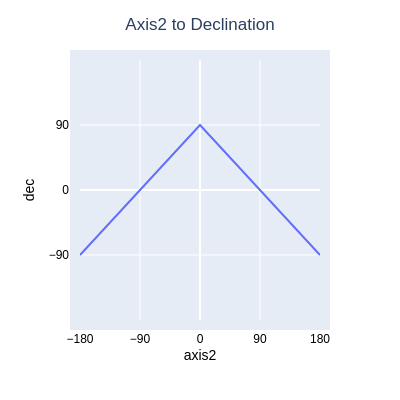
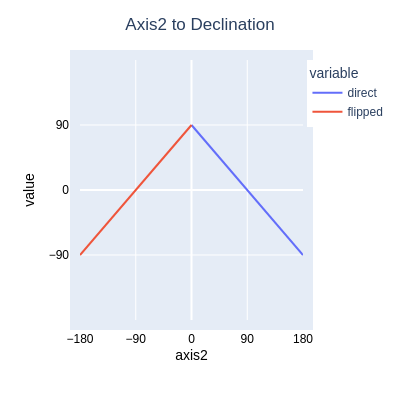
doc changes

diff --git a/teenastro_v3/teenastro_v3/index.html b/teenastro_v3/teenastro_v3/index.html
@@ -71,6 +71,8 @@
     </li>
     <li class="toctree-l2"><a class="reference internal" href="#motion-control-spi-only-mode-of-the-5160-stepper-controller">Motion Control (SPI-only) mode of the 5160 stepper controller</a>
     </li>
+    <li class="toctree-l2"><a class="reference internal" href="#motor-api">Motor API</a>
+    </li>
     <li class="toctree-l2"><a class="reference internal" href="#hardware">Hardware</a>
     </li>
     </ul>
@@ -131,7 +133,7 @@
 <li>for the  sky model (mapping sky coordinates to instrument coordinates) </li>
 <li>to handle the differences between the two kinds of mounts, by considering that an Eq mount is simply an AltAz mount oriented towards the pole. As noted in the v2 document, this has several disadvantages.</li>
 </ul>
-<p>For v3, the alignment matrices and Eq/Altaz differences are handled separately: The alignment matrix only maps the sky coordinates to instrument coordinates, and all mount-dependent code is isolated in 2 different classes, one for each type of mount. Each class has its own goto, tracking etc. routines. This way we only test the mount type once at startup, and in most cases we no longer need to call isAltAz() or similar functions at run-time.   </p>
+<p>For v3, the alignment matrix <strong>only maps the sky coordinates</strong> to instrument coordinates, and <strong>all mount-dependent code is isolated in 2 different classes</strong>, one for each type of mount. Each class has its own goto, tracking etc. routines. This way we only test the mount type once at startup, and in most cases we no longer need to call isAltAz() or similar functions at run-time.   </p>
 <h4 id="mapping-sky-coordinates-to-axis-angles">Mapping sky coordinates to axis angles</h4>
 <p>Mapping axis positions to sky coordinates seems simple, but requires careful definitions. <br />
 For an equatorial mount, Axis1 is the Hour Angle and Axis2 is the Declination. <br />
@@ -140,13 +142,13 @@ A GEM mount in the Home Position points to the pole, with its DEC axis vertical.
 <table>
 <thead>
 <tr>
-<th>ra_direct = axis1+90, ra_flipped=axis1-90</th>
+<th>ha_direct = axis1+90, ha_flipped=axis1-90</th>
 <th>dec = 90+axis2[-90..0], dec=90-axis2[0..90]</th>
 </tr>
 </thead>
 <tbody>
 <tr>
-<td><img alt="" src="../axis1_ra.png" /></td>
+<td><img alt="" src="../axis1_ha.png" /></td>
 <td><img alt="" src="../axis2_dec.png" /></td>
 </tr>
 </tbody>
@@ -155,19 +157,37 @@ A GEM mount in the Home Position points to the pole, with its DEC axis vertical.
 <p>The ISR running off the sidereal timer has only one purpose, which is to update the sidereal time. All other tasks run at multiples of the operating system's tick, normally one millisecond.   </p>
 <p>On ESP32 there is no EEPROM, but a section of RAM that emulates EEPROM, and gets written into the Flash with the EEPROM.commit() function. To keep the code compatible, the Monitor task performs a hash of the RAM (every 10 seconds or so) and commits it to Flash when a change is detected.   </p>
 <h3 id="motion-control-spi-only-mode-of-the-5160-stepper-controller">Motion Control (SPI-only) mode of the 5160 stepper controller</h3>
-<p>The TeenAstro V2.x code base uses the STEP/DIR mode for controlling the stepper motor driver (TMC2130 or TMC5160). This requires the microcontroller to toggle the STEP input of the driver for each step. Since we use microstepping to get a smooth motion, we program one interrupt for each microstep. The interrupt period is </p>
+<p>The TeenAstrov2 code base uses the STEP/DIR mode for controlling the stepper motor driver (TMC2130 or TMC5160). This requires the microcontroller to toggle the STEP input of the driver for each step. Since we use microstepping to get a smooth motion, we program one interrupt for each microstep. The interrupt period is </p>
 <pre><code>t = 24 * 3600 / (gear reduction * steps/rot * microsteps)
 </code></pre>
 <p>For example, for a gear reduction of 1000 (ratio of motor axis to mount axis rotations), typical motors with 200 steps/rotation, 32 microsteps, and sidereal rate (one mount axis rotation for 24 hours), our interrupt period is:  </p>
 <pre><code>t = 24 * 3600 / (1000 * 200 * 32) = 13.5mS.
 </code></pre>
-<p>At higher slew speeds, the interrupt period is reduced proportionnally: at a slew speed of 100x, the period is 13.5mS / 100 = 135µS.   </p>
+<p>At higher slew speeds, the interrupt period is reduced proportionally: at a slew speed of 100x, the period is 13.5mS / 100 = 135µS.   </p>
 <p>In turn, the minimum interrupt period of the microcontroller limits the maximum slew speed. (to 675x in our example for the Teensy 3.2).      </p>
 <p>The corresponding step size for the motor axis is 360º / (gear reduction * steps/rot * microsteps). In our example, the step size is 360 / (1000 * 200 * 32) = 0.000056º = 0.2" (arc-seconds). This step size should be kept as low as possible to ensure smooth tracking and guiding.   </p>
 <p>The Trinamic 5160 can run without STEP/DIR interrupts and can control the motor directly through the SPI without requiring a microcontroller interrupt at each step. </p>
 <p>Therefore we can use the highest possible microstep value (128) and the highest slew rate that the motors can handle. (We are only limited by the maximum torque).   </p>
+<h3 id="motor-api">Motor API</h3>
+<p>All the motor functionality is accessed through this API. The device driver for each type of motor (Step/Dir, MotionControl, Servo) implements these functions.    </p>
+<pre><code>class MotionControl
+{
+public:
+  virtual void init(void);
+  virtual void setCurrentPos(long);
+  virtual void setTargetPos(long);
+  virtual void setVmax(double);
+  virtual void setAmax(long);
+  virtual long getCurrentPos(void);
+  virtual long getTargetPos(void);
+  virtual double getSpeed(void);
+  virtual bool positionReached(void);
+  virtual bool isSlewing(void);
+  virtual void adjustSpeed(double);
+};
+</code></pre>
 <h3 id="hardware">Hardware</h3>
-<p>We need the 5160 BOB (Breakout Board), not the 5160 SilentStepStick, for 2 reasons:   </p>
+<p>For the SPI-only mode, we need the 5160 BOB (Breakout Board), not the 5160 SilentStepStick, for 2 reasons:   </p>
 <ul>
 <li>set SD_MODE to GND to use the internal step generator   </li>
 <li>connect an external clock to the CLK input. Without this external clock, the precision is +-4%, obviously unusable in our case.   </li>

diff --git a/teenastro_v3/index.html b/teenastro_v3/index.html
@@ -129,5 +129,5 @@
 
 <!--
 MkDocs version : 1.3.1
-Build Date UTC : 2023-01-26 19:31:46.666168+00:00
+Build Date UTC : 2023-01-27 14:55:01.274392+00:00
 -->
